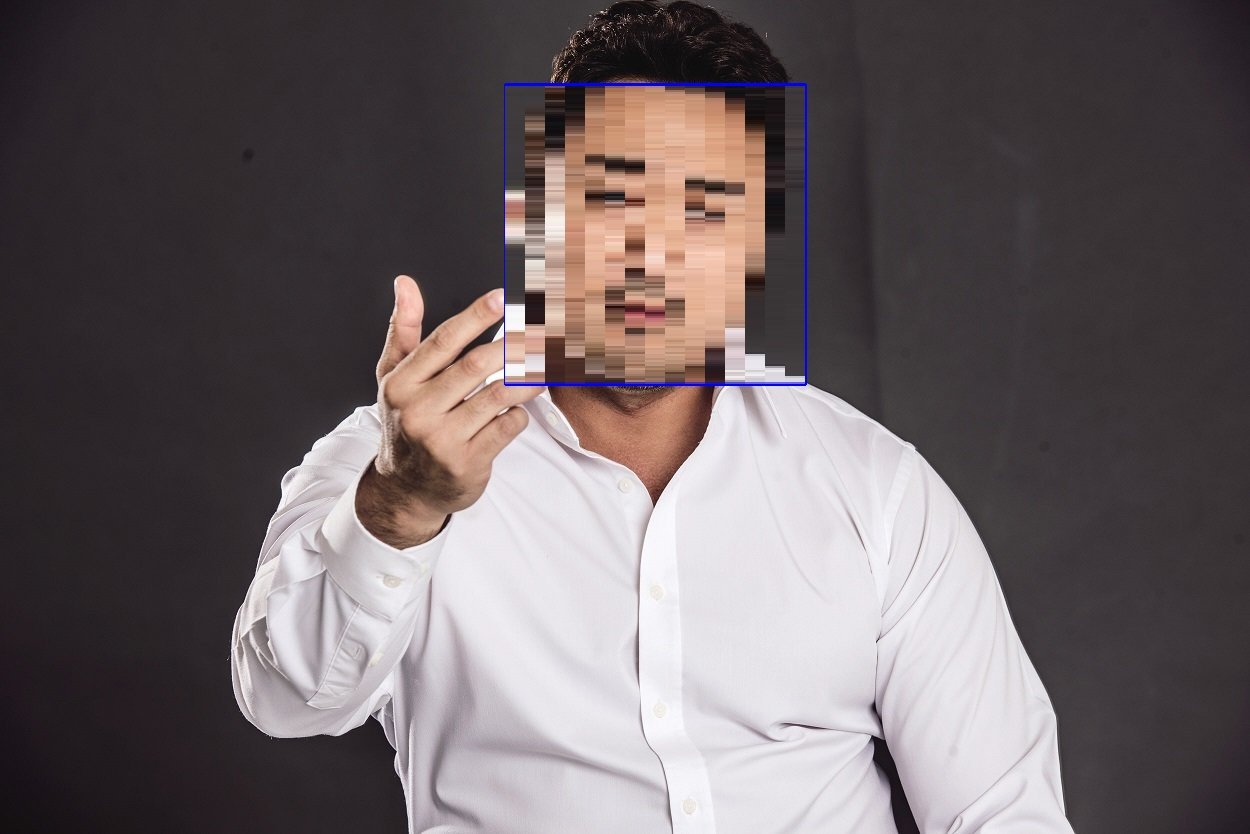
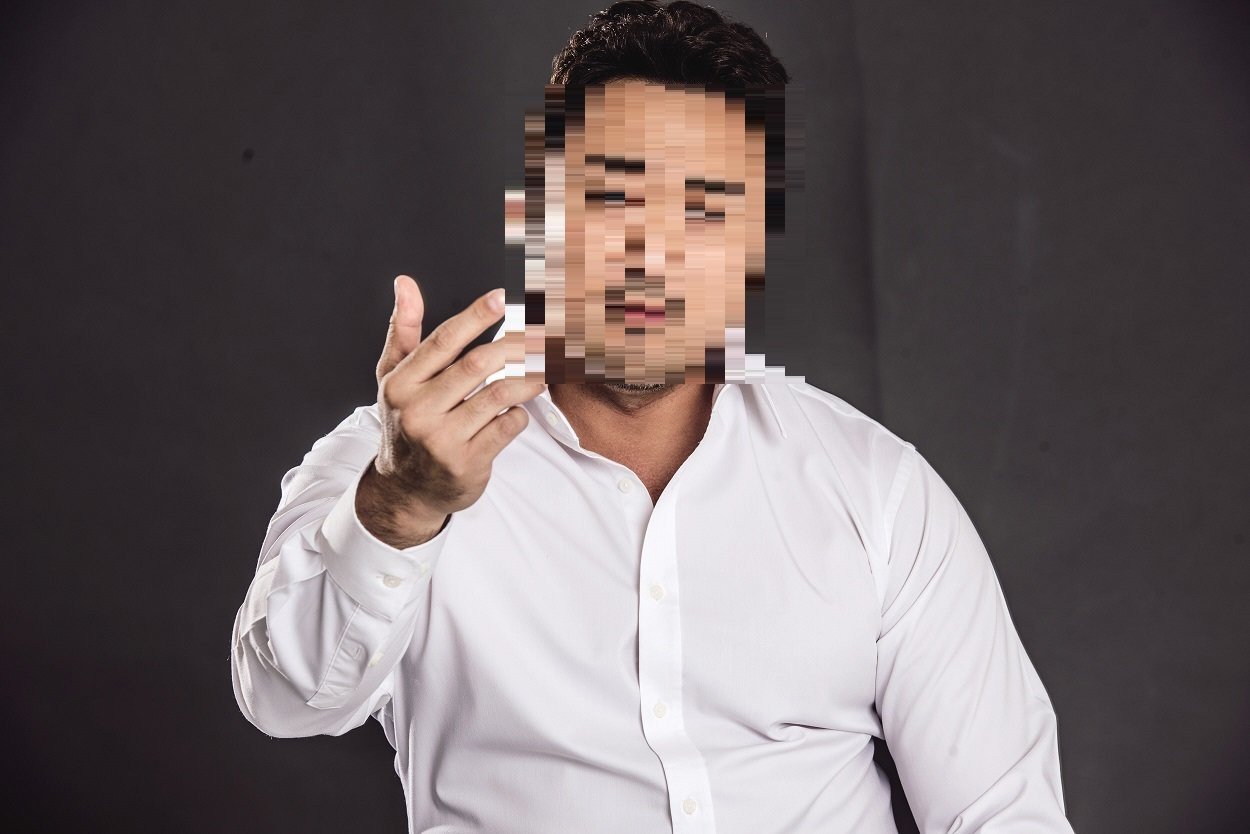
font
font style

Changed region(s): [[0.4056, 0.0935, 0.6552, 0.4676], [0.3744, 0.1247, 0.4056, 0.3429], [0.3744, 0.4053, 0.4056, 0.4365]]

diff --git a/templates/index.html b/templates/index.html
@@ -6,6 +6,7 @@
     <meta name="viewport" content="width=device-width, initial-scale=1.0">
     <title>Face Mosaic Site</title>
     <link rel="stylesheet" href="/static/css/style.css">
+    <script src="/static/js/style.js"></script>
     
 </head>
 <body>
@@ -14,19 +15,21 @@
         <p>Select and send the picture you want to change to a picture</p>
     </div>
     <div class="button" onmouseenter="">
-        <p style="text-align: center;">Upload a picture and click Submit</p>
+        <p style="text-align: center;">Upload a picture and click change</p>
+        <br>
         <form class = "upload" action = "/img" method = "POST" enctype = "multipart/form-data">
             <label class="input-file-button" for="button1" onmouseenter="buttonMove(this)">UPLOAD</label>
-            <input id = "button1" type="file" name = "file" />
-            <input id = "button2" type="submit" onmouseenter="buttonMove(this)"/>
+            <input id = "button1" type="file" name = "file"/>
+            <input id = "button2" type="submit" onmouseenter="buttonMove(this)" value="change"/>
         </form>
     </div>
-    <div class = "img">
-        <img class="" src="{{ path }}" width = "600" height = "auto" />
-        <img src="{{ face }}" width = "600" height = "auto" />
+    
+    <div class = "imgBox">
+        <img class="img1" src="{{ path }}" width = "600" height = "auto" />
+        <img class="img2" src="{{ face }}" width = "600" height = "auto" />
     </div>
     <script>
-        function buttonMove(this){
+        function buttonMove(this){ 
             this.style.color = black;  
         }
     </script>

diff --git a/static/css/style.css b/static/css/style.css
@@ -1,8 +1,10 @@
+@import url('https://fonts.googleapis.com/css2?family=Abril+Fatface&family=Source+Sans+Pro:wght@300&display=swap');
 body{
     margin: 0;
     bottom: 0;
     background-color: black;
     color: #ffffff;
+    font-family: 'Source Sans Pro', sans-serif;
 }
 .text{
     text-align: center;
@@ -29,13 +31,16 @@ body{
 .input-file-button{
     width: 100%;
     padding: 10px 30px;
-    background-color:#FF6600;
+    background-color:royalblue;
     border-radius: 4px;
     color: white;
     cursor: pointer;
     font-size: 20px;
 }
-.img{
+.imgBox{
     display: flex;
     justify-content: space-around;
+    border-style: solid;
+    border-color: white;
+    padding: 20px;
 }

diff --git a/static/js/style.js b/static/js/style.js
@@ -20,6 +20,8 @@ function loadFile(input) {
     //이미지를 image-show div에 추가
     var container = document.getElementById('image-show');
     container.appendChild(newImage);
-    
 
   };
+button1.oninput = function(){
+  result.innerHTML = input.value; 
+}

diff --git a/art.py b/art.py
@@ -1,6 +1,7 @@
+import os
 
 import cv2
-import os
+
 
 class IMAGE :
         def image_to_paint(img):
@@ -16,9 +17,6 @@ class IMAGE :
                 gray = cv2.cvtColor(img, cv2.COLOR_BGR2GRAY)
 
                 faces = face_cascade.detectMultiScale(gray, 1.2)
-
-                for (x,y,w,h) in faces:
-                        cv2.rectangle(img, (x,y), (x+w, y+h), (255,0,0), 2)
 
                 # 모자이크
                 for (x,y,w,h) in faces:
